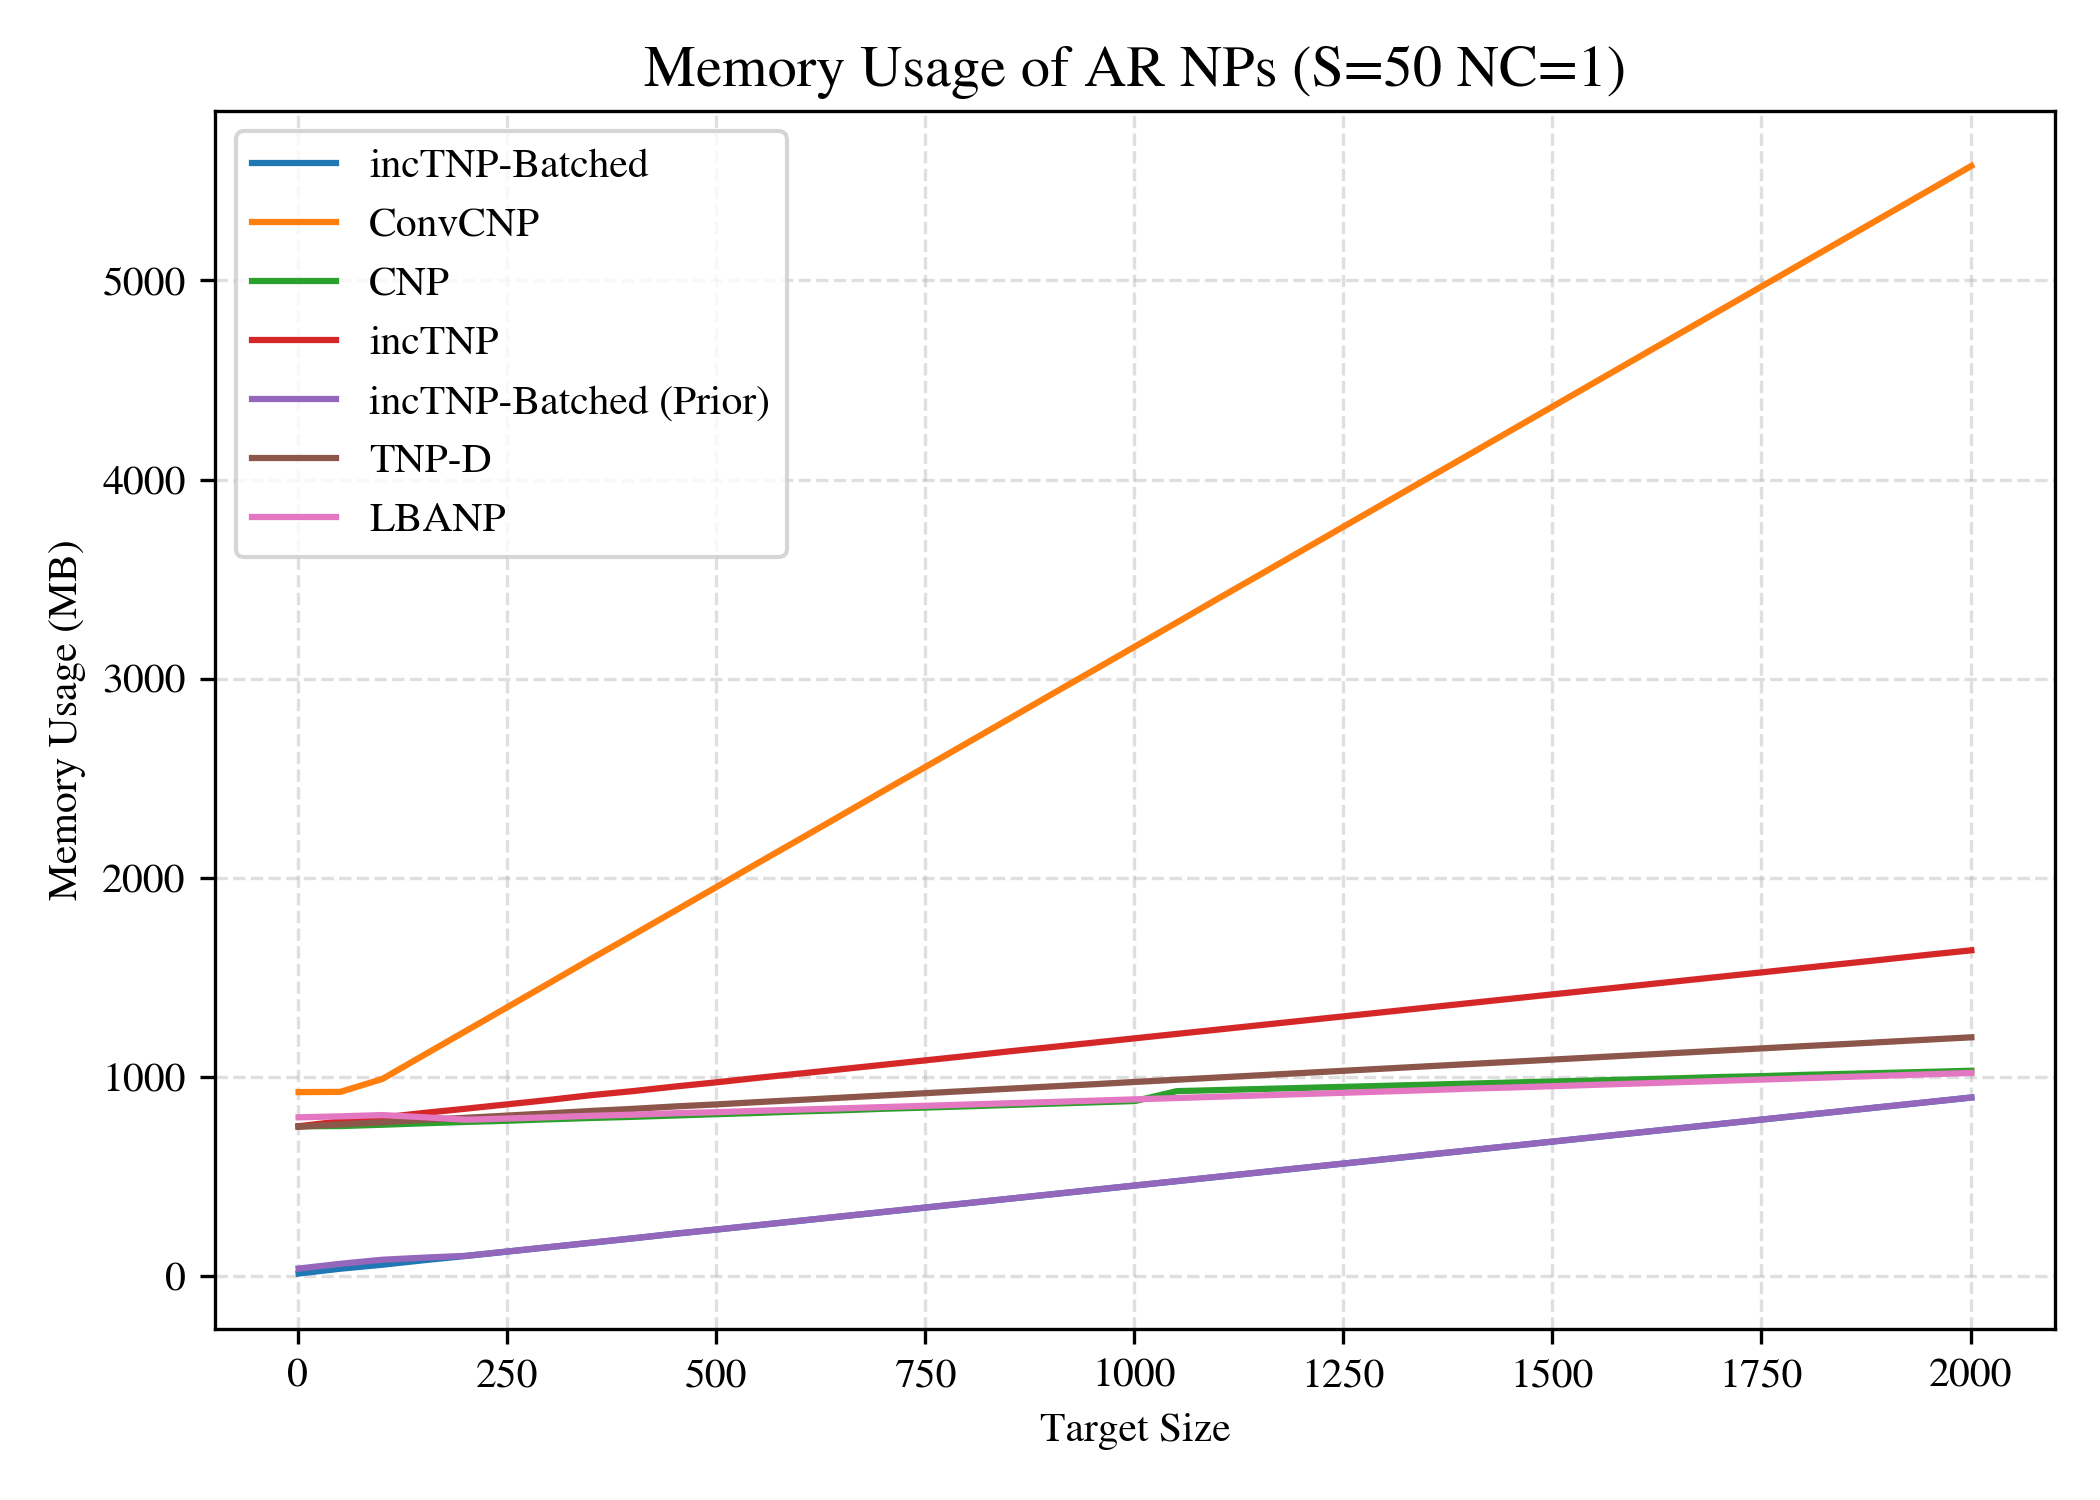
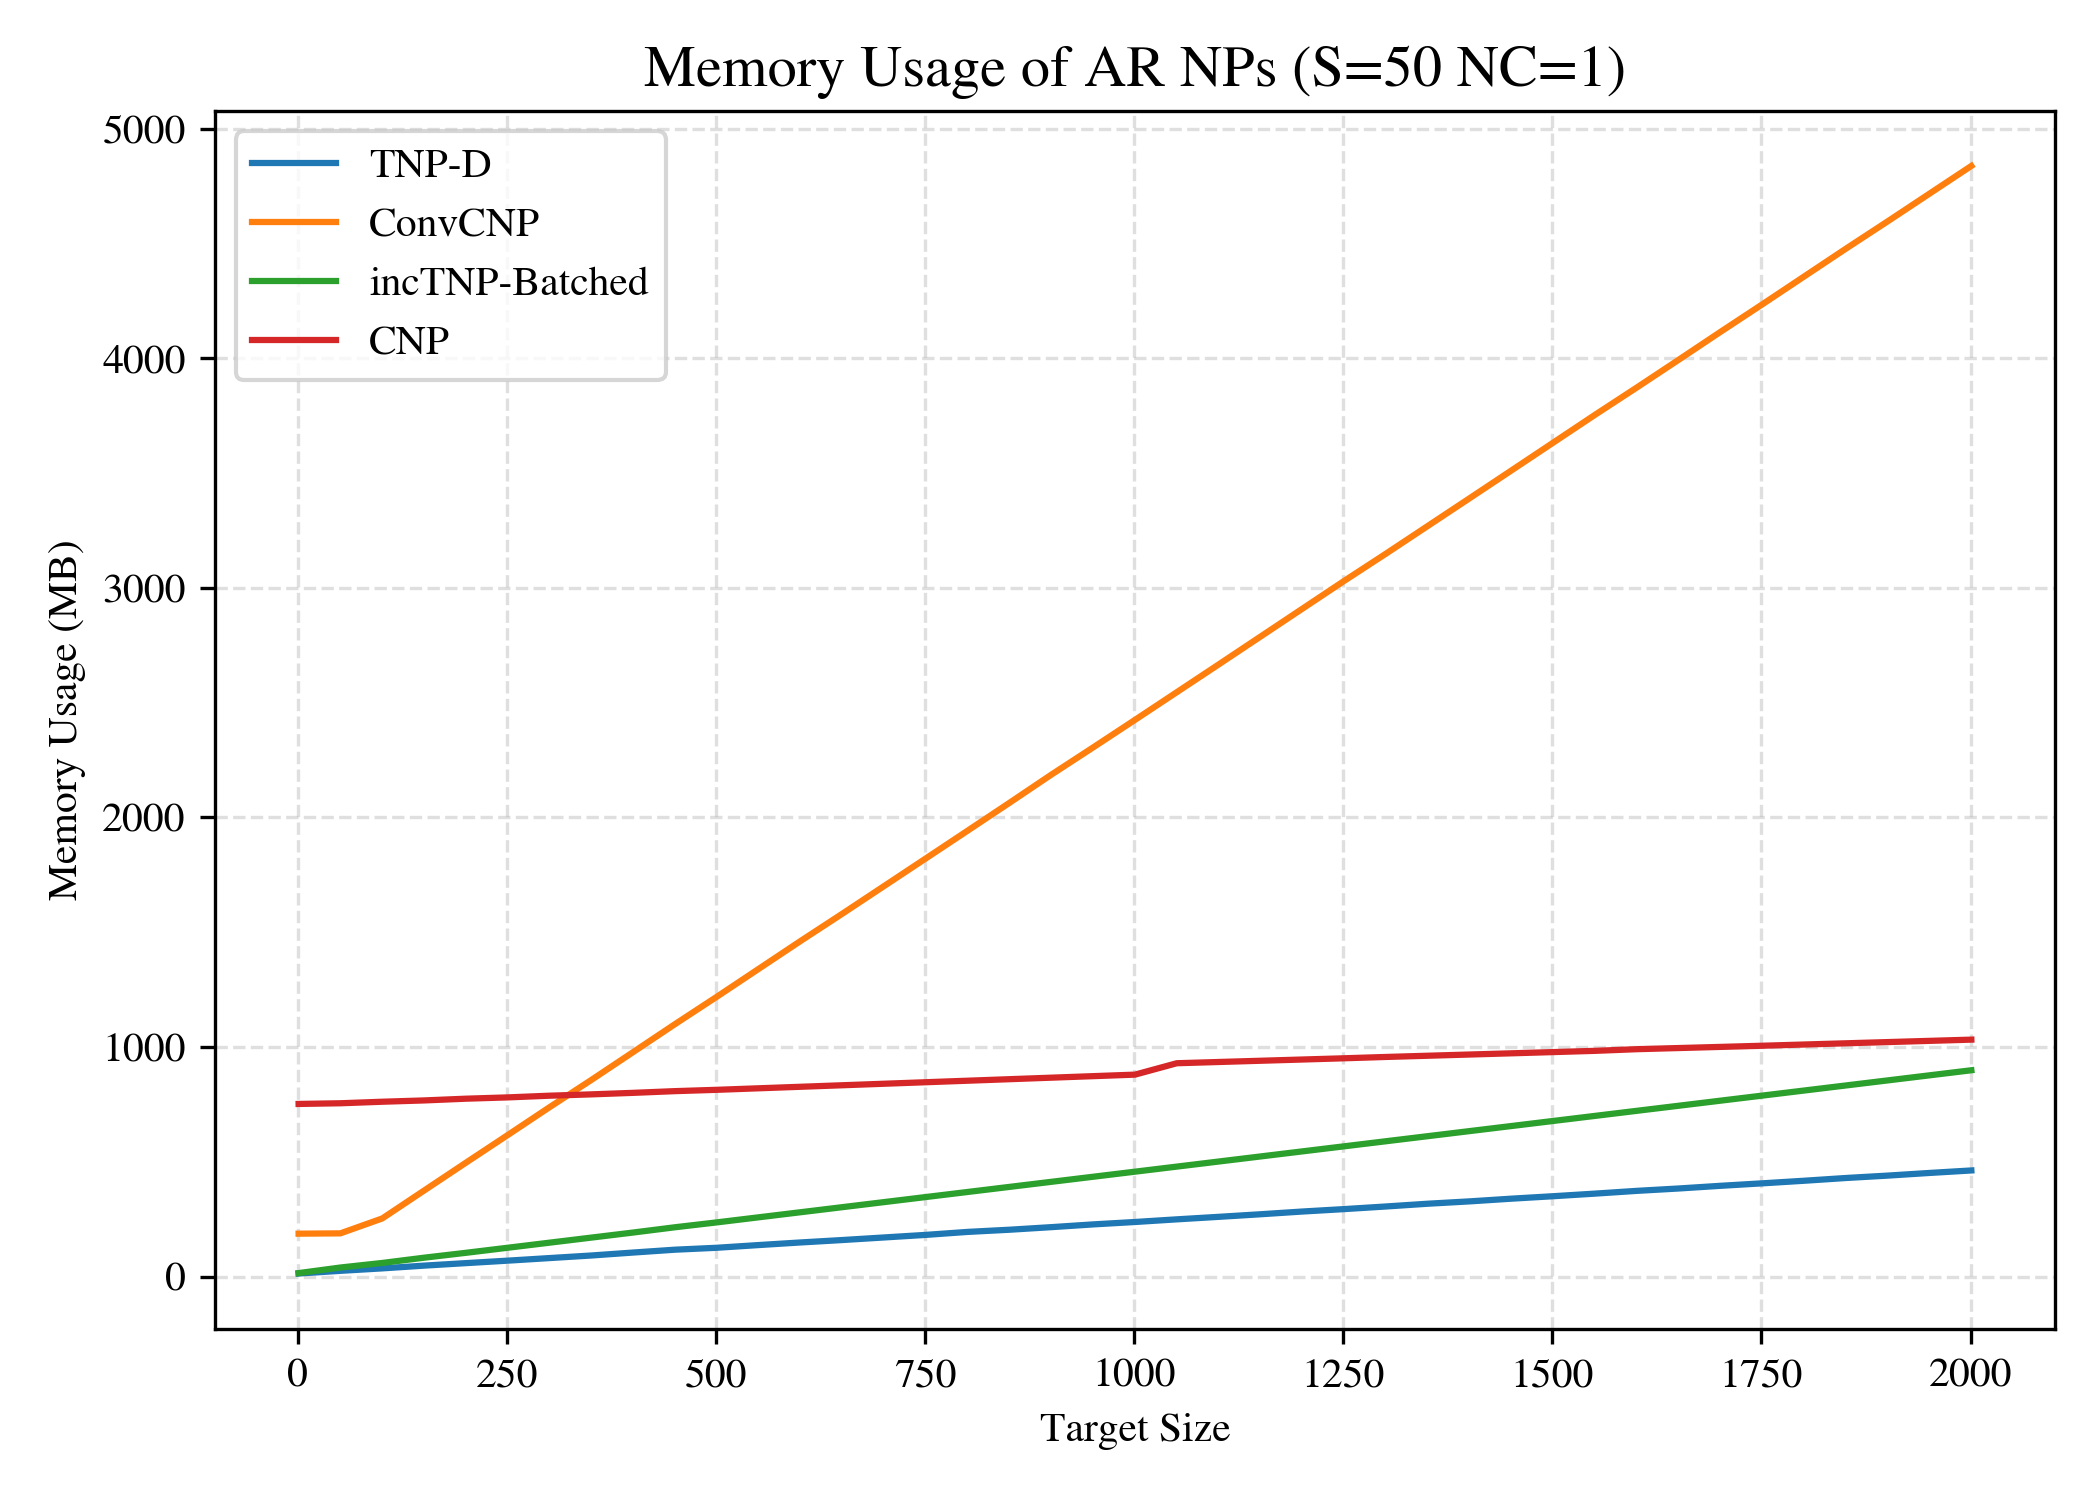
More plots

diff --git a/experiments/arnphad_isd.py b/experiments/arnphad_isd.py
@@ -367,8 +367,9 @@ def get_model_list():
         'pm846-university-of-cambridge/cnp-had/model-suqmhf9v:v99', 'CNP')
     conv_cnp = ('experiments/configs/hadISD/had_convcnp.yml',
         'pm846-university-of-cambridge/convcnp-had/model-p4f775ey:v98', 'ConvCNP')    
-    models = [tnp_plain, incTNP, batchedTNP, priorBatched, lbanp, cnp, conv_cnp]
-    models = [batchedTNP, conv_cnp, cnp, incTNP, priorBatched, tnp_plain, lbanp]
+    #models = [tnp_plain, incTNP, batchedTNP, priorBatched, lbanp, cnp, conv_cnp]
+    #models = [batchedTNP, conv_cnp, cnp, incTNP, priorBatched, tnp_plain, lbanp]
+    models = [tnp_plain, conv_cnp, batchedTNP, cnp]
     return models
 
 # Compares NP models in AR mode on RBF set
@@ -404,6 +405,6 @@ def compare_had_models(base_out_txt_file: str, device: str = "cuda"):
 
 
 if __name__ == "__main__":
-    compare_had_models(base_out_txt_file="experiments/plot_results/hadar/ar_had_comp")
-    plot_ar_unrolls()
+    #compare_had_models(base_out_txt_file="experiments/plot_results/hadar/ar_had_comp")
+    #plot_ar_unrolls()
     measure_perf_timings()
